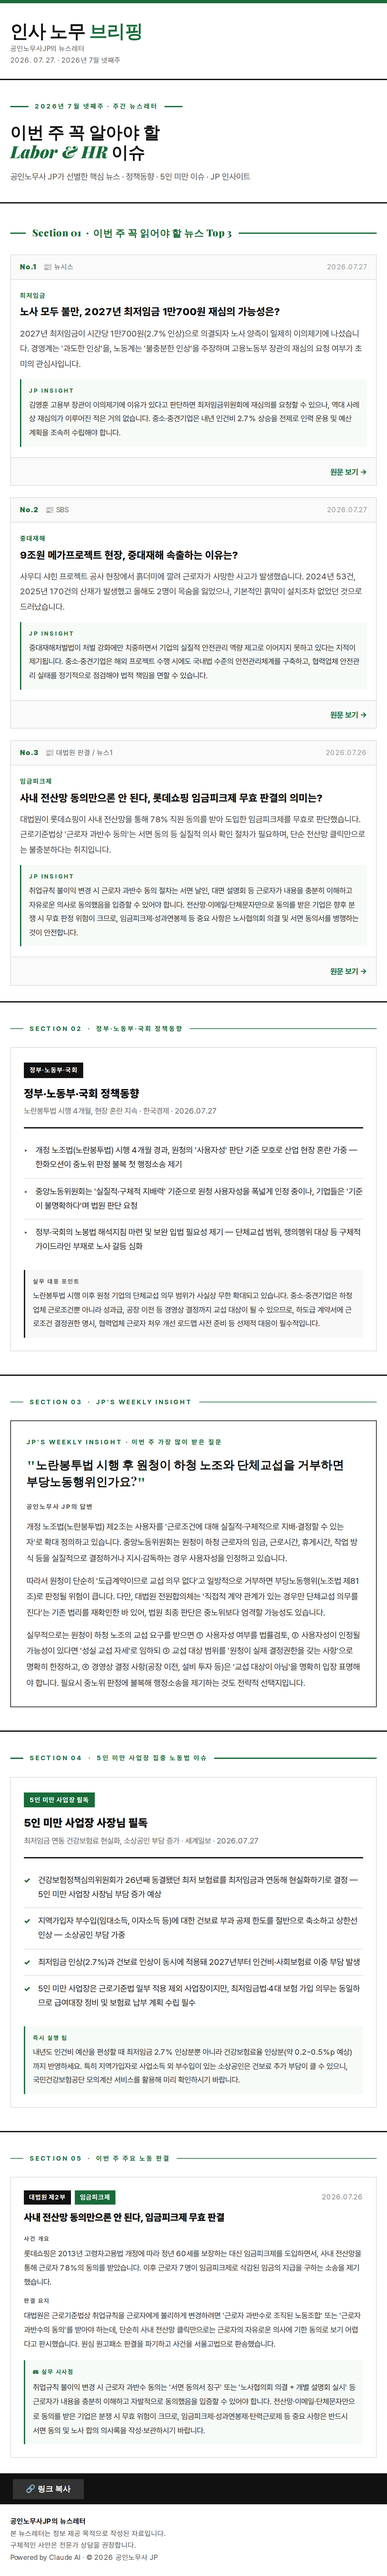
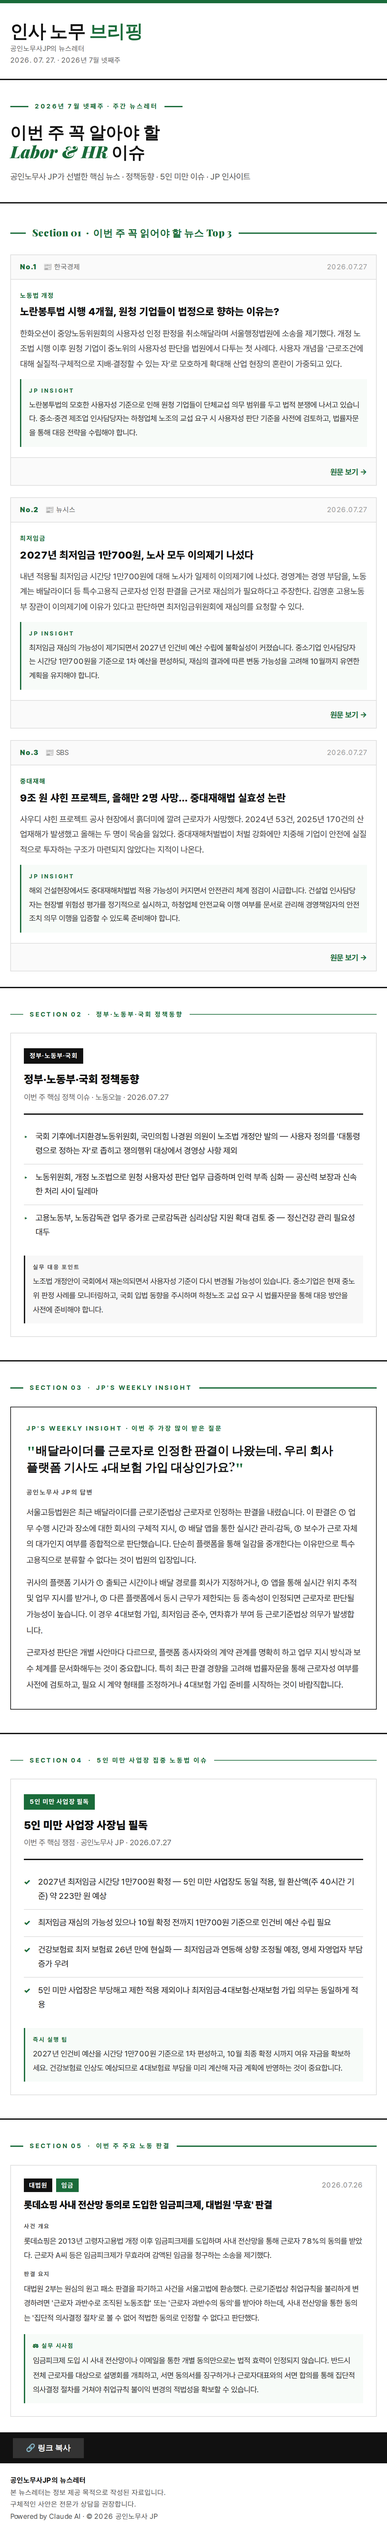
Auto: 20260726 인사 노무 브리핑 뉴스레터 생성 (HTML+PNG)

Changed region(s): [[0.0308, 0.4057, 0.925, 0.9987], [0.0308, 0.0, 0.925, 0.4057]]

diff --git a/newsletter/latest.html b/newsletter/latest.html
@@ -259,23 +259,23 @@
 </div>
 <div class="nl-section">
   <div class="kicker kicker-s01">Section 01 &nbsp;·&nbsp; 이번 주 꼭 읽어야 할 뉴스 Top 3</div>
-  <div class="news-card-nl"><div class="nc-header"><span class="nc-rank">No.1</span><span class="nc-source">📰 뉴시스</span><span class="nc-date">2026.07.27</span></div><div class="nc-body"><div class="nc-category">최저임금</div><h3 class="nc-title">노사 모두 불만, 2027년 최저임금 1만700원 재심의 가능성은?</h3><p class="nc-summary">2027년 최저임금이 시간당 1만700원(2.7% 인상)으로 의결되자 노사 양측이 일제히 이의제기에 나섰습니다. 경영계는 '과도한 인상'을, 노동계는 '불충분한 인상'을 주장하며 고용노동부 장관의 재심의 요청 여부가 초미의 관심사입니다.</p><div class="nc-insight"><div class="nc-insight-label">JP Insight</div><div class="nc-insight-text">김영훈 고용부 장관이 이의제기에 이유가 있다고 판단하면 최저임금위원회에 재심의를 요청할 수 있으나, 역대 사례상 재심의가 이루어진 적은 거의 없습니다. 중소·중견기업은 내년 인건비 2.7% 상승을 전제로 인력 운용 및 예산 계획을 조속히 수립해야 합니다.</div></div></div><div class="nc-footer"><a class="nc-link" href="https://www.newsis.com/view/NISX20260726_0003723671" target="_blank">원문 보기 →</a></div></div><div class="news-card-nl"><div class="nc-header"><span class="nc-rank">No.2</span><span class="nc-source">📰 SBS</span><span class="nc-date">2026.07.27</span></div><div class="nc-body"><div class="nc-category">중대재해</div><h3 class="nc-title">9조원 메가프로젝트 현장, 중대재해 속출하는 이유는?</h3><p class="nc-summary">사우디 샤힌 프로젝트 공사 현장에서 흙더미에 깔려 근로자가 사망한 사고가 발생했습니다. 2024년 53건, 2025년 170건의 산재가 발생했고 올해도 2명이 목숨을 잃었으나, 기본적인 흙막이 설치조차 없었던 것으로 드러났습니다.</p><div class="nc-insight"><div class="nc-insight-label">JP Insight</div><div class="nc-insight-text">중대재해처벌법이 처벌 강화에만 치중하면서 기업의 실질적 안전관리 역량 제고로 이어지지 못하고 있다는 지적이 제기됩니다. 중소·중견기업은 해외 프로젝트 수행 시에도 국내법 수준의 안전관리체계를 구축하고, 협력업체 안전관리 실태를 정기적으로 점검해야 법적 책임을 면할 수 있습니다.</div></div></div><div class="nc-footer"><a class="nc-link" href="https://news.sbs.co.kr/news/endPage.do?news_id=N1008675644&plink=ORI&cooper=NAVER" target="_blank">원문 보기 →</a></div></div><div class="news-card-nl"><div class="nc-header"><span class="nc-rank">No.3</span><span class="nc-source">📰 대법원 판결 / 뉴스1</span><span class="nc-date">2026.07.26</span></div><div class="nc-body"><div class="nc-category">임금피크제</div><h3 class="nc-title">사내 전산망 동의만으론 안 된다, 롯데쇼핑 임금피크제 무효 판결의 의미는?</h3><p class="nc-summary">대법원이 롯데쇼핑이 사내 전산망을 통해 78% 직원 동의를 받아 도입한 임금피크제를 무효로 판단했습니다. 근로기준법상 '근로자 과반수 동의'는 서면 동의 등 실질적 의사 확인 절차가 필요하며, 단순 전산망 클릭만으로는 불충분하다는 취지입니다.</p><div class="nc-insight"><div class="nc-insight-label">JP Insight</div><div class="nc-insight-text">취업규칙 불이익 변경 시 근로자 과반수 동의 절차는 서면 날인, 대면 설명회 등 근로자가 내용을 충분히 이해하고 자유로운 의사로 동의했음을 입증할 수 있어야 합니다. 전산망·이메일·단체문자만으로 동의를 받은 기업은 향후 분쟁 시 무효 판정 위험이 크므로, 임금피크제·성과연봉제 등 중요 사항은 노사협의회 의결 및 서면 동의서를 병행하는 것이 안전합니다.</div></div></div><div class="nc-footer"><a class="nc-link" href="https://www.news1.kr/society/court-prosecution/6239169" target="_blank">원문 보기 →</a></div></div>
+  <div class="news-card-nl"><div class="nc-header"><span class="nc-rank">No.1</span><span class="nc-source">📰 한국경제</span><span class="nc-date">2026.07.27</span></div><div class="nc-body"><div class="nc-category">노동법 개정</div><h3 class="nc-title">노란봉투법 시행 4개월, 원청 기업들이 법정으로 향하는 이유는?</h3><p class="nc-summary">한화오션이 중앙노동위원회의 사용자성 인정 판정을 취소해달라며 서울행정법원에 소송을 제기했다. 개정 노조법 시행 이후 원청 기업이 중노위의 사용자성 판단을 법원에서 다투는 첫 사례다. 사용자 개념을 '근로조건에 대해 실질적·구체적으로 지배·결정할 수 있는 자'로 모호하게 확대해 산업 현장의 혼란이 가중되고 있다.</p><div class="nc-insight"><div class="nc-insight-label">JP Insight</div><div class="nc-insight-text">노란봉투법의 모호한 사용자성 기준으로 인해 원청 기업들이 단체교섭 의무 범위를 두고 법적 분쟁에 나서고 있습니다. 중소·중견 제조업 인사담당자는 하청업체 노조의 교섭 요구 시 사용자성 판단 기준을 사전에 검토하고, 법률자문을 통해 대응 전략을 수립해야 합니다.</div></div></div><div class="nc-footer"><a class="nc-link" href="https://www.hankyung.com/article/2026072665971" target="_blank">원문 보기 →</a></div></div><div class="news-card-nl"><div class="nc-header"><span class="nc-rank">No.2</span><span class="nc-source">📰 뉴시스</span><span class="nc-date">2026.07.27</span></div><div class="nc-body"><div class="nc-category">최저임금</div><h3 class="nc-title">2027년 최저임금 1만700원, 노사 모두 이의제기 나섰다</h3><p class="nc-summary">내년 적용될 최저임금 시간당 1만700원에 대해 노사가 일제히 이의제기에 나섰다. 경영계는 경영 부담을, 노동계는 배달라이더 등 특수고용직 근로자성 인정 판결을 근거로 재심의가 필요하다고 주장한다. 김영훈 고용노동부 장관이 이의제기에 이유가 있다고 판단하면 최저임금위원회에 재심의를 요청할 수 있다.</p><div class="nc-insight"><div class="nc-insight-label">JP Insight</div><div class="nc-insight-text">최저임금 재심의 가능성이 제기되면서 2027년 인건비 예산 수립에 불확실성이 커졌습니다. 중소기업 인사담당자는 시간당 1만700원을 기준으로 1차 예산을 편성하되, 재심의 결과에 따른 변동 가능성을 고려해 10월까지 유연한 계획을 유지해야 합니다.</div></div></div><div class="nc-footer"><a class="nc-link" href="https://www.newsis.com/view/NISX20260726_0003723671" target="_blank">원문 보기 →</a></div></div><div class="news-card-nl"><div class="nc-header"><span class="nc-rank">No.3</span><span class="nc-source">📰 SBS</span><span class="nc-date">2026.07.27</span></div><div class="nc-body"><div class="nc-category">중대재해</div><h3 class="nc-title">9조 원 샤힌 프로젝트, 올해만 2명 사망… 중대재해법 실효성 논란</h3><p class="nc-summary">사우디 샤힌 프로젝트 공사 현장에서 흙더미에 깔려 근로자가 사망했다. 2024년 53건, 2025년 170건의 산업재해가 발생했고 올해는 두 명이 목숨을 잃었다. 중대재해처벌법이 처벌 강화에만 치중해 기업이 안전에 실질적으로 투자하는 구조가 마련되지 않았다는 지적이 나온다.</p><div class="nc-insight"><div class="nc-insight-label">JP Insight</div><div class="nc-insight-text">해외 건설현장에서도 중대재해처벌법 적용 가능성이 커지면서 안전관리 체계 점검이 시급합니다. 건설업 인사담당자는 현장별 위험성 평가를 정기적으로 실시하고, 하청업체 안전교육 이행 여부를 문서로 관리해 경영책임자의 안전조치 의무 이행을 입증할 수 있도록 준비해야 합니다.</div></div></div><div class="nc-footer"><a class="nc-link" href="https://news.sbs.co.kr/news/endPage.do?news_id=N1008675644&plink=ORI&cooper=NAVER" target="_blank">원문 보기 →</a></div></div>
 </div>
 <div class="nl-section">
   <div class="kicker">Section 02 &nbsp;·&nbsp; 정부·노동부·국회 정책동향</div>
-  <div class="gov-card"><div class="gov-badge">정부·노동부·국회</div><div class="gov-title">정부·노동부·국회 정책동향</div><div class="gov-sub">노란봉투법 시행 4개월, 현장 혼란 지속 · 한국경제 · 2026.07.27</div><hr class="section-divider"><ul class="gov-bullets"><li>개정 노조법(노란봉투법) 시행 4개월 경과, 원청의 '사용자성' 판단 기준 모호로 산업 현장 혼란 가중 — 한화오션이 중노위 판정 불복 첫 행정소송 제기</li><li>중앙노동위원회는 '실질적·구체적 지배력' 기준으로 원청 사용자성을 폭넓게 인정 중이나, 기업들은 '기준이 불명확하다'며 법원 판단 요청</li><li>정부·국회의 노봉법 해석지침 마련 및 보완 입법 필요성 제기 — 단체교섭 범위, 쟁의행위 대상 등 구체적 가이드라인 부재로 노사 갈등 심화</li></ul><div class="gov-insight"><div class="gov-insight-label">실무 대응 포인트</div>노란봉투법 시행 이후 원청 기업의 단체교섭 의무 범위가 사실상 무한 확대되고 있습니다. 중소·중견기업은 하청업체 근로조건뿐 아니라 성과급, 공장 이전 등 경영상 결정까지 교섭 대상이 될 수 있으므로, 하도급 계약서에 근로조건 결정권한 명시, 협력업체 근로자 처우 개선 로드맵 사전 준비 등 선제적 대응이 필수적입니다.</div></div>
+  <div class="gov-card"><div class="gov-badge">정부·노동부·국회</div><div class="gov-title">정부·노동부·국회 정책동향</div><div class="gov-sub">이번 주 핵심 정책 이슈 · 노동오늘 · 2026.07.27</div><hr class="section-divider"><ul class="gov-bullets"><li>국회 기후에너지환경노동위원회, 국민의힘 나경원 의원이 노조법 개정안 발의 — 사용자 정의를 '대통령령으로 정하는 자'로 좁히고 쟁의행위 대상에서 경영상 사항 제외</li><li>노동위원회, 개정 노조법으로 원청 사용자성 판단 업무 급증하며 인력 부족 심화 — 공신력 보장과 신속한 처리 사이 딜레마</li><li>고용노동부, 노동감독관 업무 증가로 근로감독관 심리상담 지원 확대 검토 중 — 정신건강 관리 필요성 대두</li></ul><div class="gov-insight"><div class="gov-insight-label">실무 대응 포인트</div>노조법 개정안이 국회에서 재논의되면서 사용자성 기준이 다시 변경될 가능성이 있습니다. 중소기업은 현재 중노위 판정 사례를 모니터링하고, 국회 입법 동향을 주시하며 하청노조 교섭 요구 시 법률자문을 통해 대응 방안을 사전에 준비해야 합니다.</div></div>
 </div>
 <div class="nl-section">
   <div class="kicker">Section 03 &nbsp;&middot;&nbsp; JP's Weekly Insight</div>
-  <div class="qa-wrap"><div class="qa-label">JP's Weekly Insight · 이번 주 가장 많이 받은 질문</div><div class="qa-q"><span class="qa-open-q">"</span>노란봉투법 시행 후 원청이 하청 노조와 단체교섭을 거부하면 부당노동행위인가요?<span class="qa-close-q">"</span></div><div class="qa-a-label">공인노무사 JP의 답변</div><p class="qa-paragraph">개정 노조법(노란봉투법) 제2조는 사용자를 '근로조건에 대해 실질적·구체적으로 지배·결정할 수 있는 자'로 확대 정의하고 있습니다. 중앙노동위원회는 원청이 하청 근로자의 임금, 근로시간, 휴게시간, 작업 방식 등을 실질적으로 결정하거나 지시·감독하는 경우 사용자성을 인정하고 있습니다.</p><p class="qa-paragraph">따라서 원청이 단순히 '도급계약이므로 교섭 의무 없다'고 일방적으로 거부하면 부당노동행위(노조법 제81조)로 판정될 위험이 큽니다. 다만, 대법원 전원합의체는 '직접적 계약 관계가 있는 경우만 단체교섭 의무를 진다'는 기존 법리를 재확인한 바 있어, 법원 최종 판단은 중노위보다 엄격할 가능성도 있습니다.</p><p class="qa-paragraph">실무적으로는 원청이 하청 노조의 교섭 요구를 받으면 ① 사용자성 여부를 법률검토, ② 사용자성이 인정될 가능성이 있다면 '성실 교섭 자세'로 임하되 ③ 교섭 대상 범위를 '원청이 실제 결정권한을 갖는 사항'으로 명확히 한정하고, ④ 경영상 결정 사항(공장 이전, 설비 투자 등)은 '교섭 대상이 아님'을 명확히 입장 표명해야 합니다. 필요시 중노위 판정에 불복해 행정소송을 제기하는 것도 전략적 선택지입니다.</p></div>
+  <div class="qa-wrap"><div class="qa-label">JP's Weekly Insight · 이번 주 가장 많이 받은 질문</div><div class="qa-q"><span class="qa-open-q">"</span>배달라이더를 근로자로 인정한 판결이 나왔는데, 우리 회사 플랫폼 기사도 4대보험 가입 대상인가요?<span class="qa-close-q">"</span></div><div class="qa-a-label">공인노무사 JP의 답변</div><p class="qa-paragraph">서울고등법원은 최근 배달라이더를 근로기준법상 근로자로 인정하는 판결을 내렸습니다. 이 판결은 ① 업무 수행 시간과 장소에 대한 회사의 구체적 지시, ② 배달 앱을 통한 실시간 관리·감독, ③ 보수가 근로 자체의 대가인지 여부를 종합적으로 판단했습니다. 단순히 플랫폼을 통해 일감을 중개한다는 이유만으로 특수고용직으로 분류할 수 없다는 것이 법원의 입장입니다.</p><p class="qa-paragraph">귀사의 플랫폼 기사가 ① 출퇴근 시간이나 배달 경로를 회사가 지정하거나, ② 앱을 통해 실시간 위치 추적 및 업무 지시를 받거나, ③ 다른 플랫폼에서 동시 근무가 제한되는 등 종속성이 인정되면 근로자로 판단될 가능성이 높습니다. 이 경우 4대보험 가입, 최저임금 준수, 연차휴가 부여 등 근로기준법상 의무가 발생합니다.</p><p class="qa-paragraph">근로자성 판단은 개별 사안마다 다르므로, 플랫폼 종사자와의 계약 관계를 명확히 하고 업무 지시 방식과 보수 체계를 문서화해두는 것이 중요합니다. 특히 최근 판결 경향을 고려해 법률자문을 통해 근로자성 여부를 사전에 검토하고, 필요 시 계약 형태를 조정하거나 4대보험 가입 준비를 시작하는 것이 바람직합니다.</p></div>
 </div>
 <div class="nl-section">
   <div class="kicker">Section 04 &nbsp;·&nbsp; 5인 미만 사업장 집중 노동법 이슈</div>
-  <div class="five-card"><div class="five-badge">5인 미만 사업장 필독</div><div class="five-title">5인 미만 사업장 사장님 필독</div><div class="five-sub">최저임금 연동 건강보험료 현실화, 소상공인 부담 증가 · 세계일보 · 2026.07.27</div><hr class="section-divider"><ul class="five-points"><li>건강보험정책심의위원회가 26년째 동결됐던 최저 보험료를 최저임금과 연동해 현실화하기로 결정 — 5인 미만 사업장 사장님 부담 증가 예상</li><li>지역가입자 부수입(임대소득, 이자소득 등)에 대한 건보료 부과 공제 한도를 절반으로 축소하고 상한선 인상 — 소상공인 부담 가중</li><li>최저임금 인상(2.7%)과 건보료 인상이 동시에 적용돼 2027년부터 인건비·사회보험료 이중 부담 발생</li><li>5인 미만 사업장은 근로기준법 일부 적용 제외 사업장이지만, 최저임금법·4대 보험 가입 의무는 동일하므로 급여대장 정비 및 보험료 납부 계획 수립 필수</li></ul><div class="five-tip"><div class="five-tip-label">즉시 실행 팁</div>내년도 인건비 예산을 편성할 때 최저임금 2.7% 인상분뿐 아니라 건강보험료율 인상분(약 0.2~0.5%p 예상)까지 반영하세요. 특히 지역가입자로 사업소득 외 부수입이 있는 소상공인은 건보료 추가 부담이 클 수 있으니, 국민건강보험공단 모의계산 서비스를 활용해 미리 확인하시기 바랍니다.</div></div>
+  <div class="five-card"><div class="five-badge">5인 미만 사업장 필독</div><div class="five-title">5인 미만 사업장 사장님 필독</div><div class="five-sub">이번 주 핵심 쟁점 · 공인노무사 JP · 2026.07.27</div><hr class="section-divider"><ul class="five-points"><li>2027년 최저임금 시간당 1만700원 확정 — 5인 미만 사업장도 동일 적용, 월 환산액(주 40시간 기준) 약 223만 원 예상</li><li>최저임금 재심의 가능성 있으나 10월 확정 전까지 1만700원 기준으로 인건비 예산 수립 필요</li><li>건강보험료 최저 보험료 26년 만에 현실화 — 최저임금과 연동해 상향 조정될 예정, 영세 자영업자 부담 증가 우려</li><li>5인 미만 사업장은 부당해고 제한 적용 제외이나 최저임금·4대보험·산재보험 가입 의무는 동일하게 적용</li></ul><div class="five-tip"><div class="five-tip-label">즉시 실행 팁</div>2027년 인건비 예산을 시간당 1만700원 기준으로 1차 편성하고, 10월 최종 확정 시까지 여유 자금을 확보하세요. 건강보험료 인상도 예상되므로 4대보험료 부담을 미리 계산해 자금 계획에 반영하는 것이 중요합니다.</div></div>
 </div>
 <div class="nl-section">
   <div class="kicker">Section 05 &nbsp;·&nbsp; 이번 주 주요 노동 판결</div>
-  <div class="ruling-card"><div class="ruling-header"><span class="ruling-court">대법원 제2부</span><span class="ruling-type">임금피크제</span><span class="ruling-date">2026.07.26</span></div><h3 class="ruling-title"><a href="https://www.news1.kr/society/court-prosecution/6239169" target="_blank" style="color:#111;text-decoration:none;">사내 전산망 동의만으론 안 된다, 임금피크제 무효 판결</a></h3><div class="ruling-section-label">사건 개요</div><div class="ruling-text">롯데쇼핑은 2013년 고령자고용법 개정에 따라 정년 60세를 보장하는 대신 임금피크제를 도입하면서, 사내 전산망을 통해 근로자 78%의 동의를 받았습니다. 이후 근로자 7명이 임금피크제로 삭감된 임금의 지급을 구하는 소송을 제기했습니다.</div><div class="ruling-section-label">판결 요지</div><div class="ruling-text">대법원은 근로기준법상 취업규칙을 근로자에게 불리하게 변경하려면 '근로자 과반수로 조직된 노동조합' 또는 '근로자 과반수의 동의'를 받아야 하는데, 단순히 사내 전산망 클릭만으로는 근로자의 자유로운 의사에 기한 동의로 보기 어렵다고 판시했습니다. 원심 원고패소 판결을 파기하고 사건을 서울고법으로 환송했습니다.</div><div class="ruling-insight"><div class="ruling-insight-label">⚖ 실무 시사점</div><div class="ruling-insight-text">취업규칙 불이익 변경 시 근로자 과반수 동의는 '서면 동의서 징구' 또는 '노사협의회 의결 + 개별 설명회 실시' 등 근로자가 내용을 충분히 이해하고 자발적으로 동의했음을 입증할 수 있어야 합니다. 전산망·이메일·단체문자만으로 동의를 받은 기업은 분쟁 시 무효 위험이 크므로, 임금피크제·성과연봉제·탄력근로제 등 중요 사항은 반드시 서면 동의 및 노사 합의 의사록을 작성·보관하시기 바랍니다.</div></div></div>
+  <div class="ruling-card"><div class="ruling-header"><span class="ruling-court">대법원</span><span class="ruling-type">임금</span><span class="ruling-date">2026.07.26</span></div><h3 class="ruling-title"><a href="https://www.edaily.co.kr/news/newspath.asp?newsid=01699046645518456" target="_blank" style="color:#111;text-decoration:none;">롯데쇼핑 사내 전산망 동의로 도입한 임금피크제, 대법원 '무효' 판결</a></h3><div class="ruling-section-label">사건 개요</div><div class="ruling-text">롯데쇼핑은 2013년 고령자고용법 개정 이후 임금피크제를 도입하며 사내 전산망을 통해 근로자 78%의 동의를 받았다. 근로자 A씨 등은 임금피크제가 무효라며 감액된 임금을 청구하는 소송을 제기했다.</div><div class="ruling-section-label">판결 요지</div><div class="ruling-text">대법원 2부는 원심의 원고 패소 판결을 파기하고 사건을 서울고법에 환송했다. 근로기준법상 취업규칙을 불리하게 변경하려면 '근로자 과반수로 조직된 노동조합' 또는 '근로자 과반수의 동의'를 받아야 하는데, 사내 전산망을 통한 동의는 '집단적 의사결정 절차'로 볼 수 없어 적법한 동의로 인정할 수 없다고 판단했다.</div><div class="ruling-insight"><div class="ruling-insight-label">⚖ 실무 시사점</div><div class="ruling-insight-text">임금피크제 도입 시 사내 전산망이나 이메일을 통한 개별 동의만으로는 법적 효력이 인정되지 않습니다. 반드시 전체 근로자를 대상으로 설명회를 개최하고, 서면 동의서를 징구하거나 근로자대표와의 서면 합의를 통해 집단적 의사결정 절차를 거쳐야 취업규칙 불이익 변경의 적법성을 확보할 수 있습니다.</div></div></div>
 </div>
 <div class="share-bar">
   <button class="share-btn share-copy" onclick="nlCopyLink()">🔗 링크 복사</button>

diff --git a/newsletter/newsletter_20260727.html b/newsletter/newsletter_20260727.html
@@ -259,23 +259,23 @@
 </div>
 <div class="nl-section">
   <div class="kicker kicker-s01">Section 01 &nbsp;·&nbsp; 이번 주 꼭 읽어야 할 뉴스 Top 3</div>
-  <div class="news-card-nl"><div class="nc-header"><span class="nc-rank">No.1</span><span class="nc-source">📰 뉴시스</span><span class="nc-date">2026.07.27</span></div><div class="nc-body"><div class="nc-category">최저임금</div><h3 class="nc-title">노사 모두 불만, 2027년 최저임금 1만700원 재심의 가능성은?</h3><p class="nc-summary">2027년 최저임금이 시간당 1만700원(2.7% 인상)으로 의결되자 노사 양측이 일제히 이의제기에 나섰습니다. 경영계는 '과도한 인상'을, 노동계는 '불충분한 인상'을 주장하며 고용노동부 장관의 재심의 요청 여부가 초미의 관심사입니다.</p><div class="nc-insight"><div class="nc-insight-label">JP Insight</div><div class="nc-insight-text">김영훈 고용부 장관이 이의제기에 이유가 있다고 판단하면 최저임금위원회에 재심의를 요청할 수 있으나, 역대 사례상 재심의가 이루어진 적은 거의 없습니다. 중소·중견기업은 내년 인건비 2.7% 상승을 전제로 인력 운용 및 예산 계획을 조속히 수립해야 합니다.</div></div></div><div class="nc-footer"><a class="nc-link" href="https://www.newsis.com/view/NISX20260726_0003723671" target="_blank">원문 보기 →</a></div></div><div class="news-card-nl"><div class="nc-header"><span class="nc-rank">No.2</span><span class="nc-source">📰 SBS</span><span class="nc-date">2026.07.27</span></div><div class="nc-body"><div class="nc-category">중대재해</div><h3 class="nc-title">9조원 메가프로젝트 현장, 중대재해 속출하는 이유는?</h3><p class="nc-summary">사우디 샤힌 프로젝트 공사 현장에서 흙더미에 깔려 근로자가 사망한 사고가 발생했습니다. 2024년 53건, 2025년 170건의 산재가 발생했고 올해도 2명이 목숨을 잃었으나, 기본적인 흙막이 설치조차 없었던 것으로 드러났습니다.</p><div class="nc-insight"><div class="nc-insight-label">JP Insight</div><div class="nc-insight-text">중대재해처벌법이 처벌 강화에만 치중하면서 기업의 실질적 안전관리 역량 제고로 이어지지 못하고 있다는 지적이 제기됩니다. 중소·중견기업은 해외 프로젝트 수행 시에도 국내법 수준의 안전관리체계를 구축하고, 협력업체 안전관리 실태를 정기적으로 점검해야 법적 책임을 면할 수 있습니다.</div></div></div><div class="nc-footer"><a class="nc-link" href="https://news.sbs.co.kr/news/endPage.do?news_id=N1008675644&plink=ORI&cooper=NAVER" target="_blank">원문 보기 →</a></div></div><div class="news-card-nl"><div class="nc-header"><span class="nc-rank">No.3</span><span class="nc-source">📰 대법원 판결 / 뉴스1</span><span class="nc-date">2026.07.26</span></div><div class="nc-body"><div class="nc-category">임금피크제</div><h3 class="nc-title">사내 전산망 동의만으론 안 된다, 롯데쇼핑 임금피크제 무효 판결의 의미는?</h3><p class="nc-summary">대법원이 롯데쇼핑이 사내 전산망을 통해 78% 직원 동의를 받아 도입한 임금피크제를 무효로 판단했습니다. 근로기준법상 '근로자 과반수 동의'는 서면 동의 등 실질적 의사 확인 절차가 필요하며, 단순 전산망 클릭만으로는 불충분하다는 취지입니다.</p><div class="nc-insight"><div class="nc-insight-label">JP Insight</div><div class="nc-insight-text">취업규칙 불이익 변경 시 근로자 과반수 동의 절차는 서면 날인, 대면 설명회 등 근로자가 내용을 충분히 이해하고 자유로운 의사로 동의했음을 입증할 수 있어야 합니다. 전산망·이메일·단체문자만으로 동의를 받은 기업은 향후 분쟁 시 무효 판정 위험이 크므로, 임금피크제·성과연봉제 등 중요 사항은 노사협의회 의결 및 서면 동의서를 병행하는 것이 안전합니다.</div></div></div><div class="nc-footer"><a class="nc-link" href="https://www.news1.kr/society/court-prosecution/6239169" target="_blank">원문 보기 →</a></div></div>
+  <div class="news-card-nl"><div class="nc-header"><span class="nc-rank">No.1</span><span class="nc-source">📰 한국경제</span><span class="nc-date">2026.07.27</span></div><div class="nc-body"><div class="nc-category">노동법 개정</div><h3 class="nc-title">노란봉투법 시행 4개월, 원청 기업들이 법정으로 향하는 이유는?</h3><p class="nc-summary">한화오션이 중앙노동위원회의 사용자성 인정 판정을 취소해달라며 서울행정법원에 소송을 제기했다. 개정 노조법 시행 이후 원청 기업이 중노위의 사용자성 판단을 법원에서 다투는 첫 사례다. 사용자 개념을 '근로조건에 대해 실질적·구체적으로 지배·결정할 수 있는 자'로 모호하게 확대해 산업 현장의 혼란이 가중되고 있다.</p><div class="nc-insight"><div class="nc-insight-label">JP Insight</div><div class="nc-insight-text">노란봉투법의 모호한 사용자성 기준으로 인해 원청 기업들이 단체교섭 의무 범위를 두고 법적 분쟁에 나서고 있습니다. 중소·중견 제조업 인사담당자는 하청업체 노조의 교섭 요구 시 사용자성 판단 기준을 사전에 검토하고, 법률자문을 통해 대응 전략을 수립해야 합니다.</div></div></div><div class="nc-footer"><a class="nc-link" href="https://www.hankyung.com/article/2026072665971" target="_blank">원문 보기 →</a></div></div><div class="news-card-nl"><div class="nc-header"><span class="nc-rank">No.2</span><span class="nc-source">📰 뉴시스</span><span class="nc-date">2026.07.27</span></div><div class="nc-body"><div class="nc-category">최저임금</div><h3 class="nc-title">2027년 최저임금 1만700원, 노사 모두 이의제기 나섰다</h3><p class="nc-summary">내년 적용될 최저임금 시간당 1만700원에 대해 노사가 일제히 이의제기에 나섰다. 경영계는 경영 부담을, 노동계는 배달라이더 등 특수고용직 근로자성 인정 판결을 근거로 재심의가 필요하다고 주장한다. 김영훈 고용노동부 장관이 이의제기에 이유가 있다고 판단하면 최저임금위원회에 재심의를 요청할 수 있다.</p><div class="nc-insight"><div class="nc-insight-label">JP Insight</div><div class="nc-insight-text">최저임금 재심의 가능성이 제기되면서 2027년 인건비 예산 수립에 불확실성이 커졌습니다. 중소기업 인사담당자는 시간당 1만700원을 기준으로 1차 예산을 편성하되, 재심의 결과에 따른 변동 가능성을 고려해 10월까지 유연한 계획을 유지해야 합니다.</div></div></div><div class="nc-footer"><a class="nc-link" href="https://www.newsis.com/view/NISX20260726_0003723671" target="_blank">원문 보기 →</a></div></div><div class="news-card-nl"><div class="nc-header"><span class="nc-rank">No.3</span><span class="nc-source">📰 SBS</span><span class="nc-date">2026.07.27</span></div><div class="nc-body"><div class="nc-category">중대재해</div><h3 class="nc-title">9조 원 샤힌 프로젝트, 올해만 2명 사망… 중대재해법 실효성 논란</h3><p class="nc-summary">사우디 샤힌 프로젝트 공사 현장에서 흙더미에 깔려 근로자가 사망했다. 2024년 53건, 2025년 170건의 산업재해가 발생했고 올해는 두 명이 목숨을 잃었다. 중대재해처벌법이 처벌 강화에만 치중해 기업이 안전에 실질적으로 투자하는 구조가 마련되지 않았다는 지적이 나온다.</p><div class="nc-insight"><div class="nc-insight-label">JP Insight</div><div class="nc-insight-text">해외 건설현장에서도 중대재해처벌법 적용 가능성이 커지면서 안전관리 체계 점검이 시급합니다. 건설업 인사담당자는 현장별 위험성 평가를 정기적으로 실시하고, 하청업체 안전교육 이행 여부를 문서로 관리해 경영책임자의 안전조치 의무 이행을 입증할 수 있도록 준비해야 합니다.</div></div></div><div class="nc-footer"><a class="nc-link" href="https://news.sbs.co.kr/news/endPage.do?news_id=N1008675644&plink=ORI&cooper=NAVER" target="_blank">원문 보기 →</a></div></div>
 </div>
 <div class="nl-section">
   <div class="kicker">Section 02 &nbsp;·&nbsp; 정부·노동부·국회 정책동향</div>
-  <div class="gov-card"><div class="gov-badge">정부·노동부·국회</div><div class="gov-title">정부·노동부·국회 정책동향</div><div class="gov-sub">노란봉투법 시행 4개월, 현장 혼란 지속 · 한국경제 · 2026.07.27</div><hr class="section-divider"><ul class="gov-bullets"><li>개정 노조법(노란봉투법) 시행 4개월 경과, 원청의 '사용자성' 판단 기준 모호로 산업 현장 혼란 가중 — 한화오션이 중노위 판정 불복 첫 행정소송 제기</li><li>중앙노동위원회는 '실질적·구체적 지배력' 기준으로 원청 사용자성을 폭넓게 인정 중이나, 기업들은 '기준이 불명확하다'며 법원 판단 요청</li><li>정부·국회의 노봉법 해석지침 마련 및 보완 입법 필요성 제기 — 단체교섭 범위, 쟁의행위 대상 등 구체적 가이드라인 부재로 노사 갈등 심화</li></ul><div class="gov-insight"><div class="gov-insight-label">실무 대응 포인트</div>노란봉투법 시행 이후 원청 기업의 단체교섭 의무 범위가 사실상 무한 확대되고 있습니다. 중소·중견기업은 하청업체 근로조건뿐 아니라 성과급, 공장 이전 등 경영상 결정까지 교섭 대상이 될 수 있으므로, 하도급 계약서에 근로조건 결정권한 명시, 협력업체 근로자 처우 개선 로드맵 사전 준비 등 선제적 대응이 필수적입니다.</div></div>
+  <div class="gov-card"><div class="gov-badge">정부·노동부·국회</div><div class="gov-title">정부·노동부·국회 정책동향</div><div class="gov-sub">이번 주 핵심 정책 이슈 · 노동오늘 · 2026.07.27</div><hr class="section-divider"><ul class="gov-bullets"><li>국회 기후에너지환경노동위원회, 국민의힘 나경원 의원이 노조법 개정안 발의 — 사용자 정의를 '대통령령으로 정하는 자'로 좁히고 쟁의행위 대상에서 경영상 사항 제외</li><li>노동위원회, 개정 노조법으로 원청 사용자성 판단 업무 급증하며 인력 부족 심화 — 공신력 보장과 신속한 처리 사이 딜레마</li><li>고용노동부, 노동감독관 업무 증가로 근로감독관 심리상담 지원 확대 검토 중 — 정신건강 관리 필요성 대두</li></ul><div class="gov-insight"><div class="gov-insight-label">실무 대응 포인트</div>노조법 개정안이 국회에서 재논의되면서 사용자성 기준이 다시 변경될 가능성이 있습니다. 중소기업은 현재 중노위 판정 사례를 모니터링하고, 국회 입법 동향을 주시하며 하청노조 교섭 요구 시 법률자문을 통해 대응 방안을 사전에 준비해야 합니다.</div></div>
 </div>
 <div class="nl-section">
   <div class="kicker">Section 03 &nbsp;&middot;&nbsp; JP's Weekly Insight</div>
-  <div class="qa-wrap"><div class="qa-label">JP's Weekly Insight · 이번 주 가장 많이 받은 질문</div><div class="qa-q"><span class="qa-open-q">"</span>노란봉투법 시행 후 원청이 하청 노조와 단체교섭을 거부하면 부당노동행위인가요?<span class="qa-close-q">"</span></div><div class="qa-a-label">공인노무사 JP의 답변</div><p class="qa-paragraph">개정 노조법(노란봉투법) 제2조는 사용자를 '근로조건에 대해 실질적·구체적으로 지배·결정할 수 있는 자'로 확대 정의하고 있습니다. 중앙노동위원회는 원청이 하청 근로자의 임금, 근로시간, 휴게시간, 작업 방식 등을 실질적으로 결정하거나 지시·감독하는 경우 사용자성을 인정하고 있습니다.</p><p class="qa-paragraph">따라서 원청이 단순히 '도급계약이므로 교섭 의무 없다'고 일방적으로 거부하면 부당노동행위(노조법 제81조)로 판정될 위험이 큽니다. 다만, 대법원 전원합의체는 '직접적 계약 관계가 있는 경우만 단체교섭 의무를 진다'는 기존 법리를 재확인한 바 있어, 법원 최종 판단은 중노위보다 엄격할 가능성도 있습니다.</p><p class="qa-paragraph">실무적으로는 원청이 하청 노조의 교섭 요구를 받으면 ① 사용자성 여부를 법률검토, ② 사용자성이 인정될 가능성이 있다면 '성실 교섭 자세'로 임하되 ③ 교섭 대상 범위를 '원청이 실제 결정권한을 갖는 사항'으로 명확히 한정하고, ④ 경영상 결정 사항(공장 이전, 설비 투자 등)은 '교섭 대상이 아님'을 명확히 입장 표명해야 합니다. 필요시 중노위 판정에 불복해 행정소송을 제기하는 것도 전략적 선택지입니다.</p></div>
+  <div class="qa-wrap"><div class="qa-label">JP's Weekly Insight · 이번 주 가장 많이 받은 질문</div><div class="qa-q"><span class="qa-open-q">"</span>배달라이더를 근로자로 인정한 판결이 나왔는데, 우리 회사 플랫폼 기사도 4대보험 가입 대상인가요?<span class="qa-close-q">"</span></div><div class="qa-a-label">공인노무사 JP의 답변</div><p class="qa-paragraph">서울고등법원은 최근 배달라이더를 근로기준법상 근로자로 인정하는 판결을 내렸습니다. 이 판결은 ① 업무 수행 시간과 장소에 대한 회사의 구체적 지시, ② 배달 앱을 통한 실시간 관리·감독, ③ 보수가 근로 자체의 대가인지 여부를 종합적으로 판단했습니다. 단순히 플랫폼을 통해 일감을 중개한다는 이유만으로 특수고용직으로 분류할 수 없다는 것이 법원의 입장입니다.</p><p class="qa-paragraph">귀사의 플랫폼 기사가 ① 출퇴근 시간이나 배달 경로를 회사가 지정하거나, ② 앱을 통해 실시간 위치 추적 및 업무 지시를 받거나, ③ 다른 플랫폼에서 동시 근무가 제한되는 등 종속성이 인정되면 근로자로 판단될 가능성이 높습니다. 이 경우 4대보험 가입, 최저임금 준수, 연차휴가 부여 등 근로기준법상 의무가 발생합니다.</p><p class="qa-paragraph">근로자성 판단은 개별 사안마다 다르므로, 플랫폼 종사자와의 계약 관계를 명확히 하고 업무 지시 방식과 보수 체계를 문서화해두는 것이 중요합니다. 특히 최근 판결 경향을 고려해 법률자문을 통해 근로자성 여부를 사전에 검토하고, 필요 시 계약 형태를 조정하거나 4대보험 가입 준비를 시작하는 것이 바람직합니다.</p></div>
 </div>
 <div class="nl-section">
   <div class="kicker">Section 04 &nbsp;·&nbsp; 5인 미만 사업장 집중 노동법 이슈</div>
-  <div class="five-card"><div class="five-badge">5인 미만 사업장 필독</div><div class="five-title">5인 미만 사업장 사장님 필독</div><div class="five-sub">최저임금 연동 건강보험료 현실화, 소상공인 부담 증가 · 세계일보 · 2026.07.27</div><hr class="section-divider"><ul class="five-points"><li>건강보험정책심의위원회가 26년째 동결됐던 최저 보험료를 최저임금과 연동해 현실화하기로 결정 — 5인 미만 사업장 사장님 부담 증가 예상</li><li>지역가입자 부수입(임대소득, 이자소득 등)에 대한 건보료 부과 공제 한도를 절반으로 축소하고 상한선 인상 — 소상공인 부담 가중</li><li>최저임금 인상(2.7%)과 건보료 인상이 동시에 적용돼 2027년부터 인건비·사회보험료 이중 부담 발생</li><li>5인 미만 사업장은 근로기준법 일부 적용 제외 사업장이지만, 최저임금법·4대 보험 가입 의무는 동일하므로 급여대장 정비 및 보험료 납부 계획 수립 필수</li></ul><div class="five-tip"><div class="five-tip-label">즉시 실행 팁</div>내년도 인건비 예산을 편성할 때 최저임금 2.7% 인상분뿐 아니라 건강보험료율 인상분(약 0.2~0.5%p 예상)까지 반영하세요. 특히 지역가입자로 사업소득 외 부수입이 있는 소상공인은 건보료 추가 부담이 클 수 있으니, 국민건강보험공단 모의계산 서비스를 활용해 미리 확인하시기 바랍니다.</div></div>
+  <div class="five-card"><div class="five-badge">5인 미만 사업장 필독</div><div class="five-title">5인 미만 사업장 사장님 필독</div><div class="five-sub">이번 주 핵심 쟁점 · 공인노무사 JP · 2026.07.27</div><hr class="section-divider"><ul class="five-points"><li>2027년 최저임금 시간당 1만700원 확정 — 5인 미만 사업장도 동일 적용, 월 환산액(주 40시간 기준) 약 223만 원 예상</li><li>최저임금 재심의 가능성 있으나 10월 확정 전까지 1만700원 기준으로 인건비 예산 수립 필요</li><li>건강보험료 최저 보험료 26년 만에 현실화 — 최저임금과 연동해 상향 조정될 예정, 영세 자영업자 부담 증가 우려</li><li>5인 미만 사업장은 부당해고 제한 적용 제외이나 최저임금·4대보험·산재보험 가입 의무는 동일하게 적용</li></ul><div class="five-tip"><div class="five-tip-label">즉시 실행 팁</div>2027년 인건비 예산을 시간당 1만700원 기준으로 1차 편성하고, 10월 최종 확정 시까지 여유 자금을 확보하세요. 건강보험료 인상도 예상되므로 4대보험료 부담을 미리 계산해 자금 계획에 반영하는 것이 중요합니다.</div></div>
 </div>
 <div class="nl-section">
   <div class="kicker">Section 05 &nbsp;·&nbsp; 이번 주 주요 노동 판결</div>
-  <div class="ruling-card"><div class="ruling-header"><span class="ruling-court">대법원 제2부</span><span class="ruling-type">임금피크제</span><span class="ruling-date">2026.07.26</span></div><h3 class="ruling-title"><a href="https://www.news1.kr/society/court-prosecution/6239169" target="_blank" style="color:#111;text-decoration:none;">사내 전산망 동의만으론 안 된다, 임금피크제 무효 판결</a></h3><div class="ruling-section-label">사건 개요</div><div class="ruling-text">롯데쇼핑은 2013년 고령자고용법 개정에 따라 정년 60세를 보장하는 대신 임금피크제를 도입하면서, 사내 전산망을 통해 근로자 78%의 동의를 받았습니다. 이후 근로자 7명이 임금피크제로 삭감된 임금의 지급을 구하는 소송을 제기했습니다.</div><div class="ruling-section-label">판결 요지</div><div class="ruling-text">대법원은 근로기준법상 취업규칙을 근로자에게 불리하게 변경하려면 '근로자 과반수로 조직된 노동조합' 또는 '근로자 과반수의 동의'를 받아야 하는데, 단순히 사내 전산망 클릭만으로는 근로자의 자유로운 의사에 기한 동의로 보기 어렵다고 판시했습니다. 원심 원고패소 판결을 파기하고 사건을 서울고법으로 환송했습니다.</div><div class="ruling-insight"><div class="ruling-insight-label">⚖ 실무 시사점</div><div class="ruling-insight-text">취업규칙 불이익 변경 시 근로자 과반수 동의는 '서면 동의서 징구' 또는 '노사협의회 의결 + 개별 설명회 실시' 등 근로자가 내용을 충분히 이해하고 자발적으로 동의했음을 입증할 수 있어야 합니다. 전산망·이메일·단체문자만으로 동의를 받은 기업은 분쟁 시 무효 위험이 크므로, 임금피크제·성과연봉제·탄력근로제 등 중요 사항은 반드시 서면 동의 및 노사 합의 의사록을 작성·보관하시기 바랍니다.</div></div></div>
+  <div class="ruling-card"><div class="ruling-header"><span class="ruling-court">대법원</span><span class="ruling-type">임금</span><span class="ruling-date">2026.07.26</span></div><h3 class="ruling-title"><a href="https://www.edaily.co.kr/news/newspath.asp?newsid=01699046645518456" target="_blank" style="color:#111;text-decoration:none;">롯데쇼핑 사내 전산망 동의로 도입한 임금피크제, 대법원 '무효' 판결</a></h3><div class="ruling-section-label">사건 개요</div><div class="ruling-text">롯데쇼핑은 2013년 고령자고용법 개정 이후 임금피크제를 도입하며 사내 전산망을 통해 근로자 78%의 동의를 받았다. 근로자 A씨 등은 임금피크제가 무효라며 감액된 임금을 청구하는 소송을 제기했다.</div><div class="ruling-section-label">판결 요지</div><div class="ruling-text">대법원 2부는 원심의 원고 패소 판결을 파기하고 사건을 서울고법에 환송했다. 근로기준법상 취업규칙을 불리하게 변경하려면 '근로자 과반수로 조직된 노동조합' 또는 '근로자 과반수의 동의'를 받아야 하는데, 사내 전산망을 통한 동의는 '집단적 의사결정 절차'로 볼 수 없어 적법한 동의로 인정할 수 없다고 판단했다.</div><div class="ruling-insight"><div class="ruling-insight-label">⚖ 실무 시사점</div><div class="ruling-insight-text">임금피크제 도입 시 사내 전산망이나 이메일을 통한 개별 동의만으로는 법적 효력이 인정되지 않습니다. 반드시 전체 근로자를 대상으로 설명회를 개최하고, 서면 동의서를 징구하거나 근로자대표와의 서면 합의를 통해 집단적 의사결정 절차를 거쳐야 취업규칙 불이익 변경의 적법성을 확보할 수 있습니다.</div></div></div>
 </div>
 <div class="share-bar">
   <button class="share-btn share-copy" onclick="nlCopyLink()">🔗 링크 복사</button>
